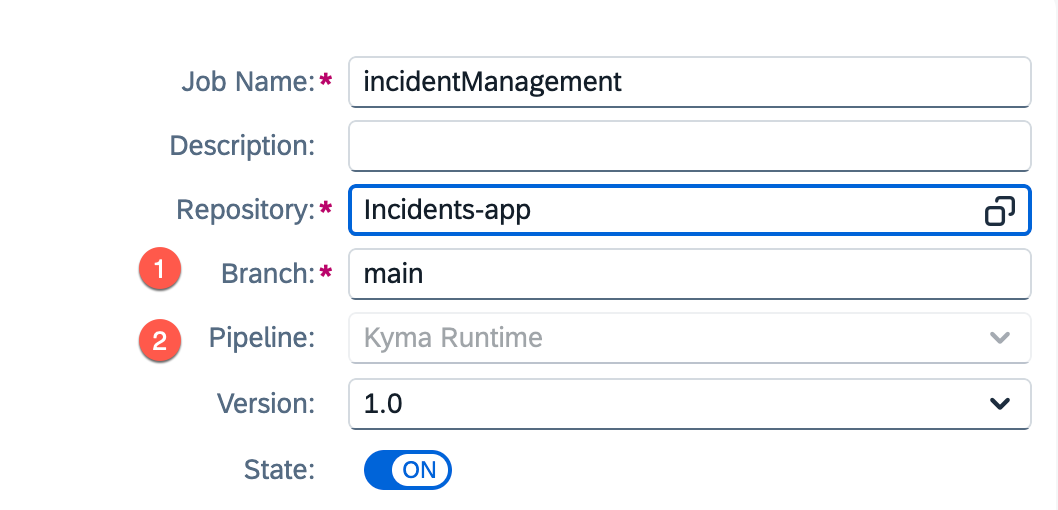
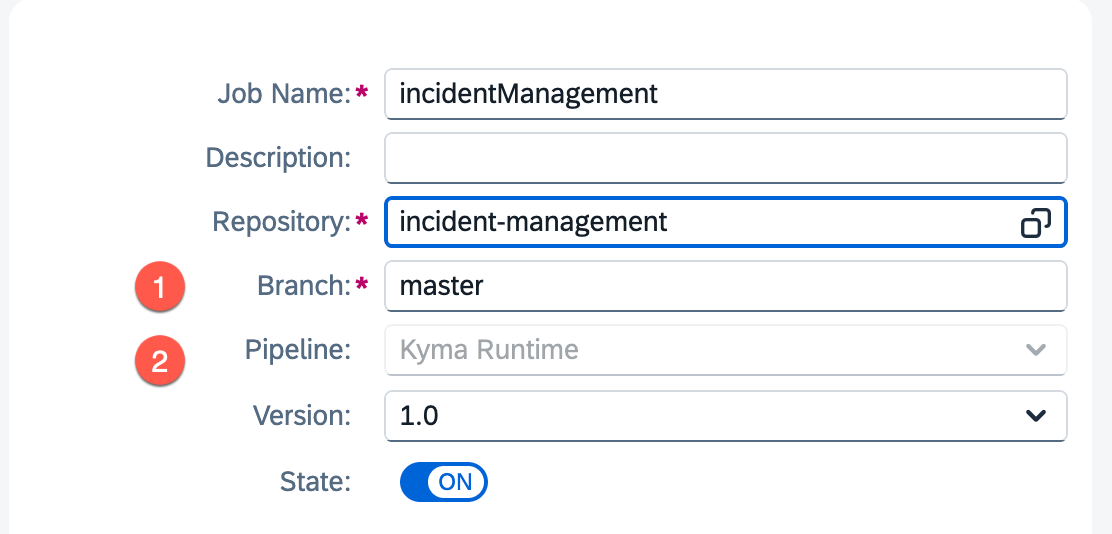
additional screenshot changes

diff --git a/documentation/kyma-cicd/README.md b/documentation/kyma-cicd/README.md
@@ -191,7 +191,7 @@ For your pipeline to be able to push and pull images from your docker repository
         sonarExecuteScan: false
       Release:
         kubernetesDeploy: true
-        deploymentName: incidents-mgmt
+        deploymentName: incident-management
         kubeConfigFileCredentialsId: <kube-config-credentials-name>
         namespace: <namespaceName>
         additionalParameters:
@@ -279,7 +279,7 @@ For your pipeline to be able to push and pull images from your docker repository
 ![configure pipeline](./cicd34.png)
 ![addRepository](./cicd35.png)
 
-4. 4. Provide the information to your GitHub repository that you had created initially.
+4. Provide the information to your GitHub repository that you had created initially.
 
     - Name: &lt;add your repo name&gt;
     - Clone URL: &lt;add your repo-URL&gt;
@@ -291,7 +291,7 @@ For your pipeline to be able to push and pull images from your docker repository
 
 6. Back in the **General Information** tab continue configuring the Job:
  
-  - Branch: main
+  - Branch: master
   - Pipeline: Kyma Runtime
  ![configure pipeline](./cicd20.png)
 
